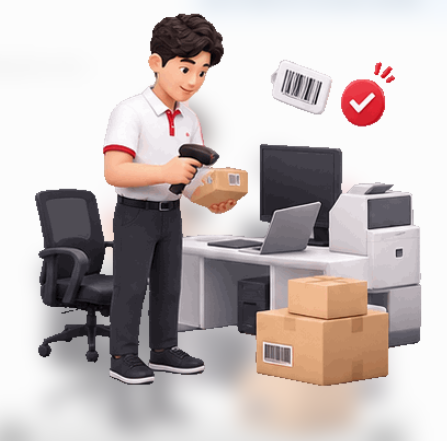
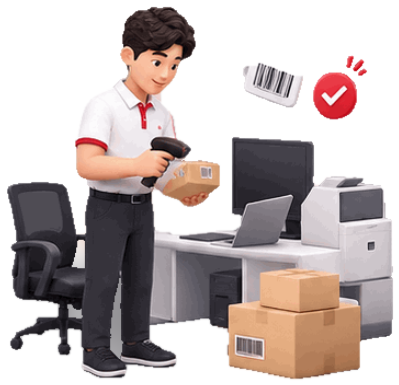
Login: transparent cutout illustration floating on red, scan effect realigned
Claude-Session: https://claude.ai/code/session_01WBg8q5z94R8Pgt6hYKYpmC

diff --git a/dashboard.html b/dashboard.html
@@ -114,20 +114,21 @@
   .conn-status[data-state="checking"] .conn-dot{animation:connPulse 1s ease-in-out infinite;}
   @keyframes connPulse{50%{opacity:.35;}}
 
-  /* ===== Login: พนักงานสแกนสินทรัพย์ (ภาพนิ่ง + เอฟเฟกต์สแกนเบาๆ ด้วย CSS) ===== */
-  .scan-art{position:relative;width:min(100%,292px);margin:18px auto;border-radius:20px;overflow:hidden;background:#FCFCFC;box-shadow:0 14px 30px rgba(0,0,0,.28);line-height:0;}
-  .scan-art img{display:block;width:100%;height:auto;user-select:none;}
+  /* ===== Login: พนักงานสแกนสินทรัพย์ (ภาพตัดพื้นหลัง + เอฟเฟกต์สแกนเบาๆ ด้วย CSS) ===== */
+  .scan-art{position:relative;width:min(100%,330px);margin:6px auto;line-height:0;animation:saFloat 5s ease-in-out infinite;}
+  .scan-art img{display:block;width:100%;height:auto;user-select:none;filter:drop-shadow(0 16px 14px rgba(70,0,12,.38));}
   .scan-art span{position:absolute;pointer-events:none;}
-  .sa-beam{left:48.8%;top:36.3%;width:6.8%;height:2px;border-radius:2px;transform-origin:0 50%;transform:rotate(55deg);
+  .sa-beam{left:47.62%;top:39.74%;width:7.62%;height:2px;border-radius:2px;transform-origin:0 50%;transform:rotate(55deg);
     background:linear-gradient(90deg,rgba(255,40,40,.2),#FF2A2A 45%,#FF2A2A);box-shadow:0 0 6px 1px rgba(255,40,40,.85);animation:saFan .9s ease-in-out infinite alternate;}
-  .sa-tip{left:48.8%;top:36.3%;width:2.6%;aspect-ratio:1;border-radius:50%;transform:translate(-50%,-50%);background:#FF2A2A;box-shadow:0 0 8px 2px rgba(255,40,40,.9);animation:saTip .9s ease-in-out infinite alternate;}
-  .sa-hit{left:52%;top:40.4%;width:5%;aspect-ratio:1;border-radius:50%;transform:translate(-50%,-50%);background:rgba(255,40,40,.38);animation:saHit 1.8s ease-in-out infinite;}
-  .sa-ok{left:79.4%;top:22.7%;width:10.5%;aspect-ratio:1;border-radius:50%;transform:translate(-50%,-50%);border:2px solid #E5243F;opacity:0;animation:saOk 2.4s ease-out infinite;}
+  .sa-tip{left:47.62%;top:39.74%;width:2.91%;aspect-ratio:1;border-radius:50%;transform:translate(-50%,-50%);background:#FF2A2A;box-shadow:0 0 8px 2px rgba(255,40,40,.9);animation:saTip .9s ease-in-out infinite alternate;}
+  .sa-hit{left:51.23%;top:44.42%;width:5.61%;aspect-ratio:1;border-radius:50%;transform:translate(-50%,-50%);background:rgba(255,40,40,.38);animation:saHit 1.8s ease-in-out infinite;}
+  .sa-ok{left:81.95%;top:24.16%;width:11.78%;aspect-ratio:1;border-radius:50%;transform:translate(-50%,-50%);border:2px solid #fff;opacity:0;animation:saOk 2.4s ease-out infinite;}
+  @keyframes saFloat{50%{transform:translateY(-6px);}}
   @keyframes saFan{from{transform:rotate(42deg);opacity:.8;}to{transform:rotate(68deg);opacity:1;}}
   @keyframes saTip{from{opacity:.55;}to{opacity:1;}}
   @keyframes saHit{0%,100%{opacity:.15;transform:translate(-50%,-50%) scale(.8);}50%{opacity:1;transform:translate(-50%,-50%) scale(1.25);}}
   @keyframes saOk{0%,55%{opacity:0;transform:translate(-50%,-50%) scale(.85);}60%{opacity:.9;}100%{opacity:0;transform:translate(-50%,-50%) scale(1.7);}}
-  @media (prefers-reduced-motion:reduce){.sa-beam,.sa-tip,.sa-hit,.sa-ok{animation:none !important;} .sa-ok,.sa-hit{display:none;}}
+  @media (prefers-reduced-motion:reduce){.scan-art,.sa-beam,.sa-tip,.sa-hit,.sa-ok{animation:none !important;} .sa-ok,.sa-hit{display:none;}}
   .login-sub code{font-family:var(--mono);background:var(--surface-2);padding:1px 5px;border-radius:4px;}
 
   /* ---------- banners ---------- */
@@ -518,7 +519,7 @@
     <div class="login-aside">
       <div class="login-wordmark"><b>BATA</b><span>THAILAND</span></div>
       <div class="scan-art" aria-hidden="true">
-        <img src="login_scan.png" alt="" width="447" height="441" draggable="false">
+        <img src="login_scan.png" alt="" width="399" height="385" draggable="false">
         <span class="sa-hit"></span><span class="sa-beam"></span><span class="sa-tip"></span><span class="sa-ok"></span>
       </div>
       <p class="login-tagline">ระบบตรวจนับสินทรัพย์ถาวร<br><span style="font-size:15px;font-weight:500;opacity:.85;">Fixed Asset Audit · Bata Thailand</span></p>
